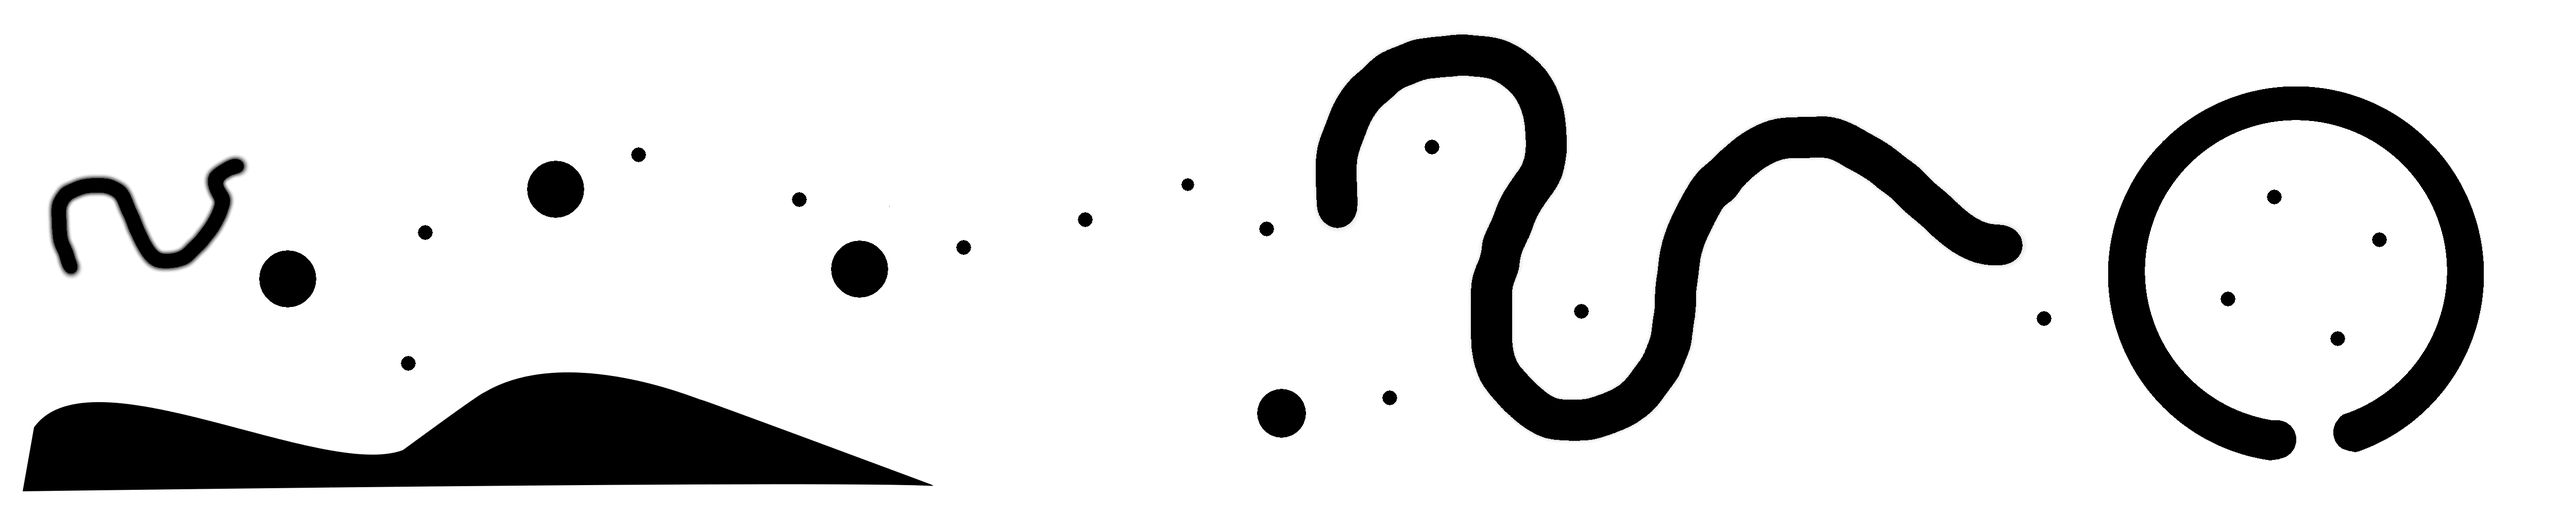
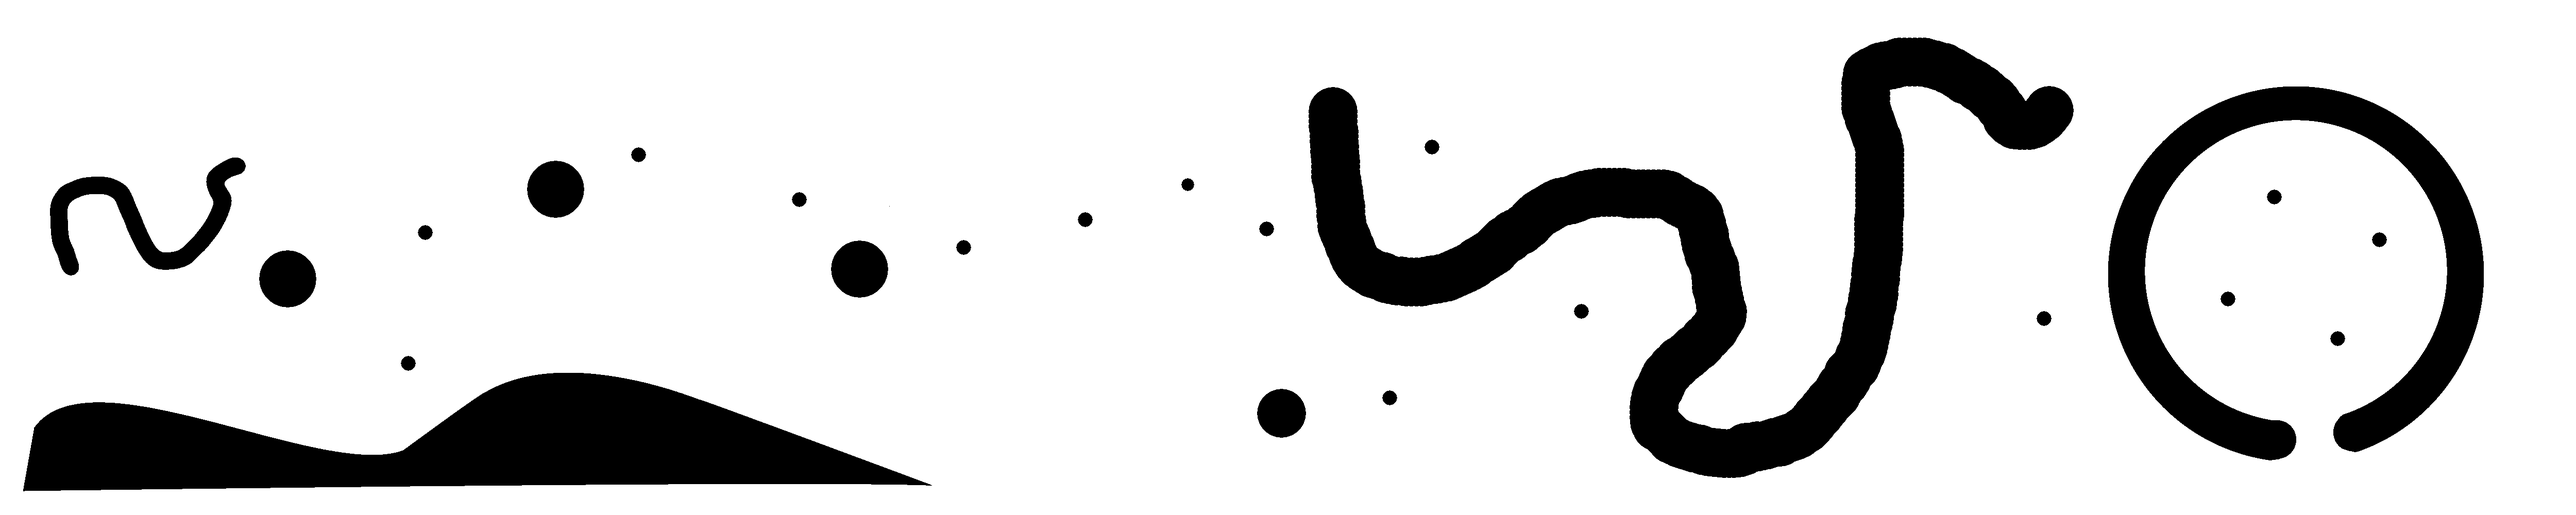
Fuck it

Changed region(s): [[0.4992, 0.062, 0.8112, 0.93], [0.0624, 0.434, 0.0936, 0.527], [0.0312, 0.341, 0.0936, 0.403]]

diff --git a/core/src/me/justin/culminating/TerrainUtils.java b/core/src/me/justin/culminating/TerrainUtils.java
@@ -86,6 +86,7 @@ public class TerrainUtils {
         }
     }
 
+    //god this is awful
     private static CollisionImageGraph buildGraph(Pixmap img, float scale) {
         CollisionImageGraph graph = new CollisionImageGraph();
 
@@ -108,46 +109,6 @@ public class TerrainUtils {
             }
         }
 
-        ArrayList<Vector2> redundant = new ArrayList<Vector2>();
-
-        //Find and fix redundant vertices
-        for (Vector2 v : graph.vertices()) {
-            if (graph.adjacencyList.get(v).size() == 2) continue;
-
-            Vector2 closestNeighbour = null;
-
-            //When there are redundant edges that might screw up our path,
-            for (CollisionImageGraph.Edge e : graph.adj(v)) {
-                Vector2 other = e.other(v);
-
-                if (closestNeighbour == null || other.dst2(v) < closestNeighbour.dst2(v)) closestNeighbour = other;
-            }
-
-            for (CollisionImageGraph.Edge e : graph.adj(v)) {
-                if (!e.other(v).equals(closestNeighbour)
-                        && graph.adjacencyList.get(e.other(v)).size() > 2) redundant.add(e.other(v));
-            }
-        }
-
-        System.out.println(redundant.size() + " redundant vertices");
-
-        for (Vector2 v : redundant) {
-            if (!graph.adjacencyList.containsKey(v)) continue; //Already deleted (in case of dupes)
-
-            for (CollisionImageGraph.Edge e : graph.adj(v)) {
-                Iterator<CollisionImageGraph.Edge> itr = graph.adj(e.other(v)).iterator();
-
-                while (itr.hasNext()) {
-                    CollisionImageGraph.Edge e2 = itr.next();
-                    if (e2.a.equals(v) || e2.b.equals(v)) itr.remove();
-                }
-            }
-
-            graph.adjacencyList.remove(v);
-        }
-
-        for (Vector2 v : graph.vertices()) assert graph.adjacencyList.get(v).size() == 2 : graph.adjacencyList.get(v).size();
-
         return graph;
     }
 
@@ -157,6 +118,7 @@ public class TerrainUtils {
 
         for (int nx = MathUtils.clamp(x-1, 0, img.getWidth()-1); nx<= MathUtils.clamp(x+1, 0, img.getWidth()-1); nx++) {
             for (int ny = MathUtils.clamp(y-1, 0, img.getHeight()-1); ny<= MathUtils.clamp(y+1, 0, img.getHeight()-1); ny++) {
+                //Ignore diagonals when checking boundaries
                 if (nx == x+1 && ny == y+1 || nx == x-1 && ny == y+1
                         || nx == x-1 && ny == y-1 || nx == x+1 && ny == y-1) continue;
                 if (nx == x && ny == y) continue;
@@ -279,38 +241,38 @@ public class TerrainUtils {
     //I could probably bake this at runtime to help performance
     public static ArrayList<TerrainSection> loadFromImage(World world, Pixmap img, float scale, float smoothness) {
         ArrayList<TerrainSection> terrain = new ArrayList<TerrainSection>();
-//
-//        int beforeSize = 0, afterSize = 0;
-//
-//        for (ArrayList<Vector2> path : getPaths(img, scale)) {
-//            beforeSize += path.size();
-//            ArrayList<Vector2> simplified = simplifyLine(path, smoothness);
-//            afterSize += simplified.size();
-//            Collections.addAll(terrain, generatePath(world, simplified.toArray(new Vector2[simplified.size()]), 0.1f, 0, 0, 100));
-//        }
-//
-//        System.out.println("Collision geometry verts before simplification: " + beforeSize);
-//        System.out.println("Collision geometry verts after simplification: " + afterSize);
-//        System.out.println("Smoothness: " + smoothness + "; Reduction: " + (float)afterSize/beforeSize * 100 + "%");
 
-        CollisionImageGraph graph = buildGraph(img, scale);
+        int beforeSize = 0, afterSize = 0;
 
-        for (Vector2 v : graph.vertices()) {
-            for (CollisionImageGraph.Edge e : graph.adj(v)) {
-                Vector2 to = e.other(v);
-
-                Vector2 topLeft = (v.x < to.x ? v : to);
-                Vector2 topRight = (v.x < to.x ? to : v);
-
-                Vector2 topEdge = topRight.cpy().sub(topLeft).nor();
-                Vector2 normal = new Vector2(-topEdge.y, topEdge.x).nor();
-
-                Vector2 bottomRight = topRight.cpy().sub(normal.cpy().scl(0.1f));
-                Vector2 bottomLeft = topLeft.cpy().sub(normal.cpy().scl(0.1f));
-                terrain.add(new TerrainSectionPolygon(world, 0, 0, new Vector2[] {bottomLeft, bottomRight, topRight, topLeft}, 100));
-            }
-
+        for (ArrayList<Vector2> path : getPaths(img, scale)) {
+            beforeSize += path.size();
+            ArrayList<Vector2> simplified = simplifyLine(path, smoothness);
+            afterSize += simplified.size();
+            Collections.addAll(terrain, generatePath(world, simplified.toArray(new Vector2[simplified.size()]), 0.1f, 0, 0, 100));
         }
+
+        System.out.println("Collision geometry verts before simplification: " + beforeSize);
+        System.out.println("Collision geometry verts after simplification: " + afterSize);
+        System.out.println("Smoothness: " + smoothness + "; Reduction: " + (float)afterSize/beforeSize * 100 + "%");
+
+//        CollisionImageGraph graph = buildGraph(img, scale);
+//
+//        for (Vector2 v : graph.vertices()) {
+//            for (CollisionImageGraph.Edge e : graph.adj(v)) {
+//                Vector2 to = e.other(v);
+//
+//                Vector2 topLeft = (v.x < to.x ? v : to);
+//                Vector2 topRight = (v.x < to.x ? to : v);
+//
+//                Vector2 topEdge = topRight.cpy().sub(topLeft).nor();
+//                Vector2 normal = new Vector2(-topEdge.y, topEdge.x).nor();
+//
+//                Vector2 bottomRight = topRight.cpy().sub(normal.cpy().scl(0.1f));
+//                Vector2 bottomLeft = topLeft.cpy().sub(normal.cpy().scl(0.1f));
+//                terrain.add(new TerrainSectionPolygon(world, 0, 0, new Vector2[] {bottomLeft, bottomRight, topRight, topLeft}, 100));
+//            }
+//
+//        }
 
         return terrain;
     }

diff --git a/core/src/me/justin/culminating/CulminatingGame.java b/core/src/me/justin/culminating/CulminatingGame.java
@@ -77,7 +77,7 @@ public class CulminatingGame extends ApplicationAdapter {
 //        addOneWayPlatform(world, -15, 30);
 //        addOneWayPlatform(world, 5, 30);
 
-        ArrayList<TerrainSection> ts = TerrainUtils.loadFromImage(world, new Pixmap(Gdx.files.internal(terrainImage)), terrainScale, 0.2f);
+        ArrayList<TerrainSection> ts = TerrainUtils.loadFromImage(world, new Pixmap(Gdx.files.internal(terrainImage)), terrainScale, 0.1f);
         for (TerrainSection t : ts) terrain.add(t);
 
         world.setContactListener(new ContactListener() {
